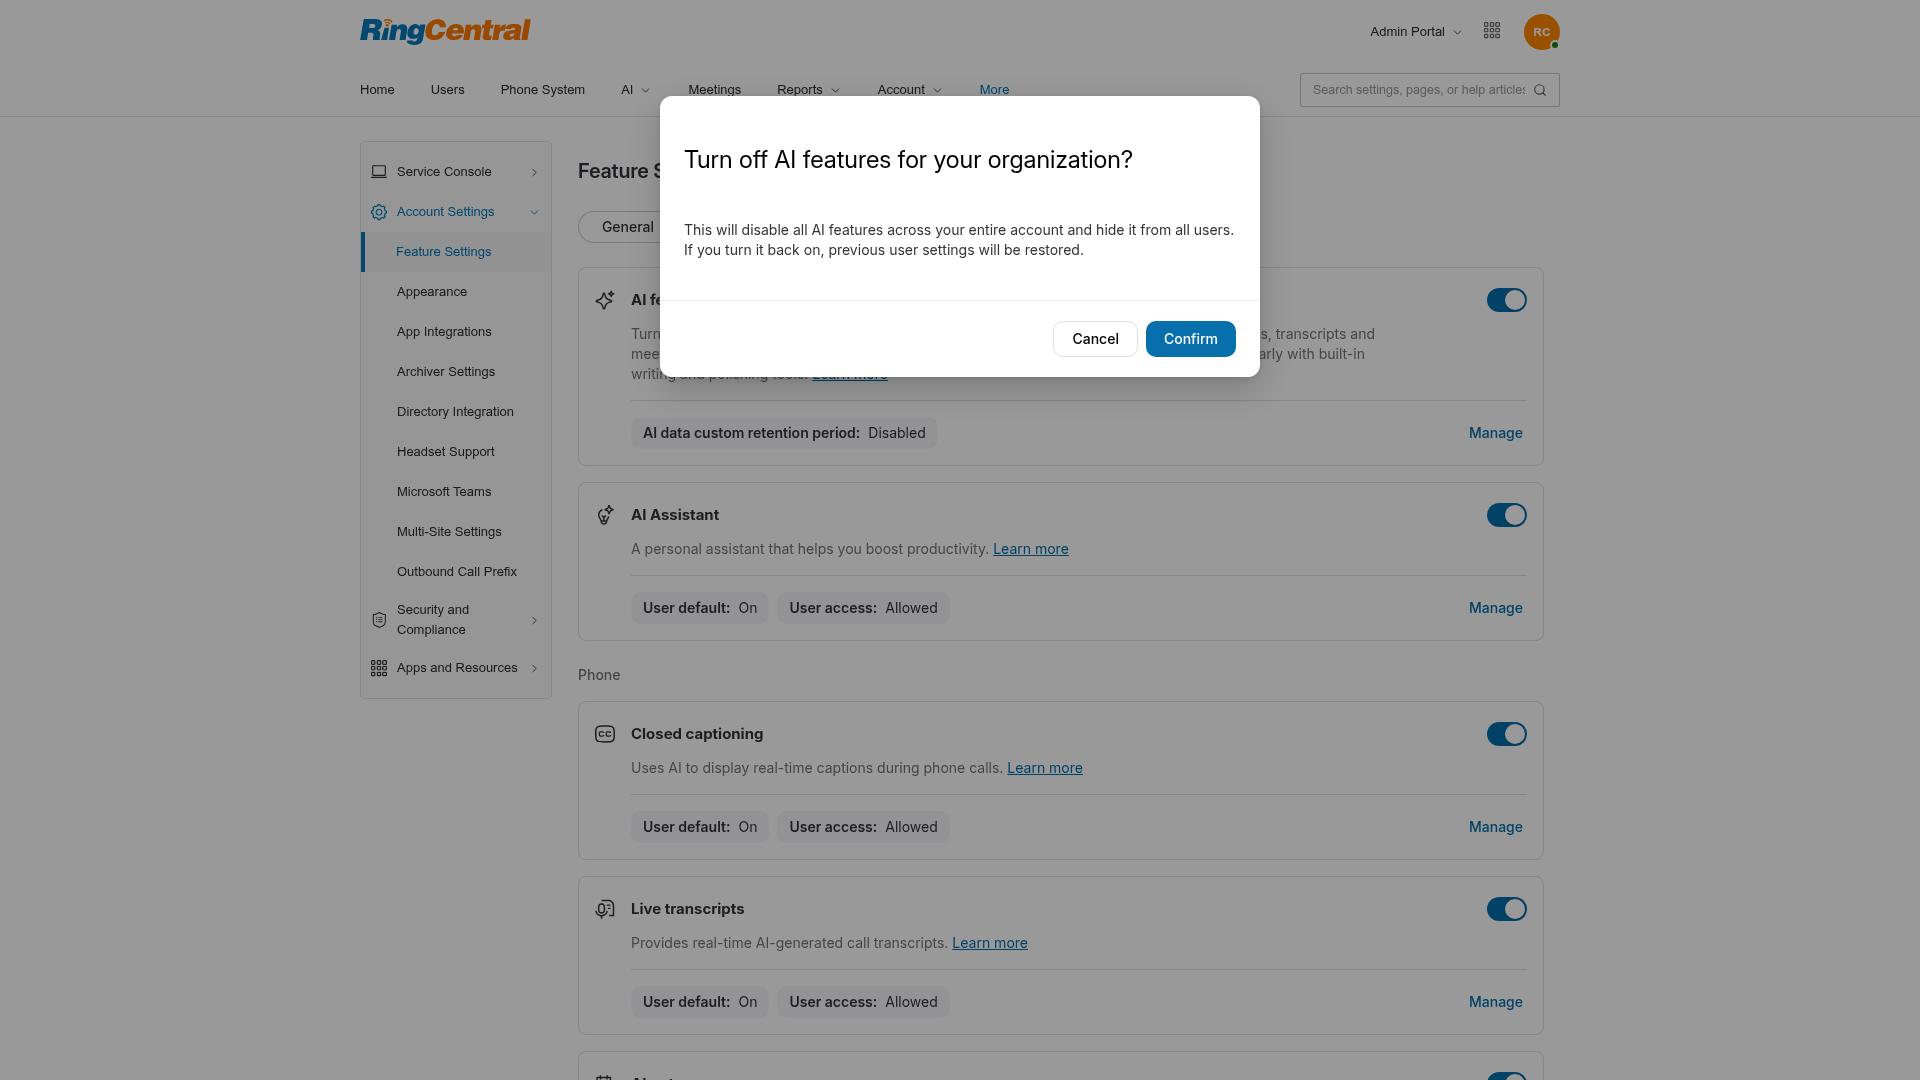
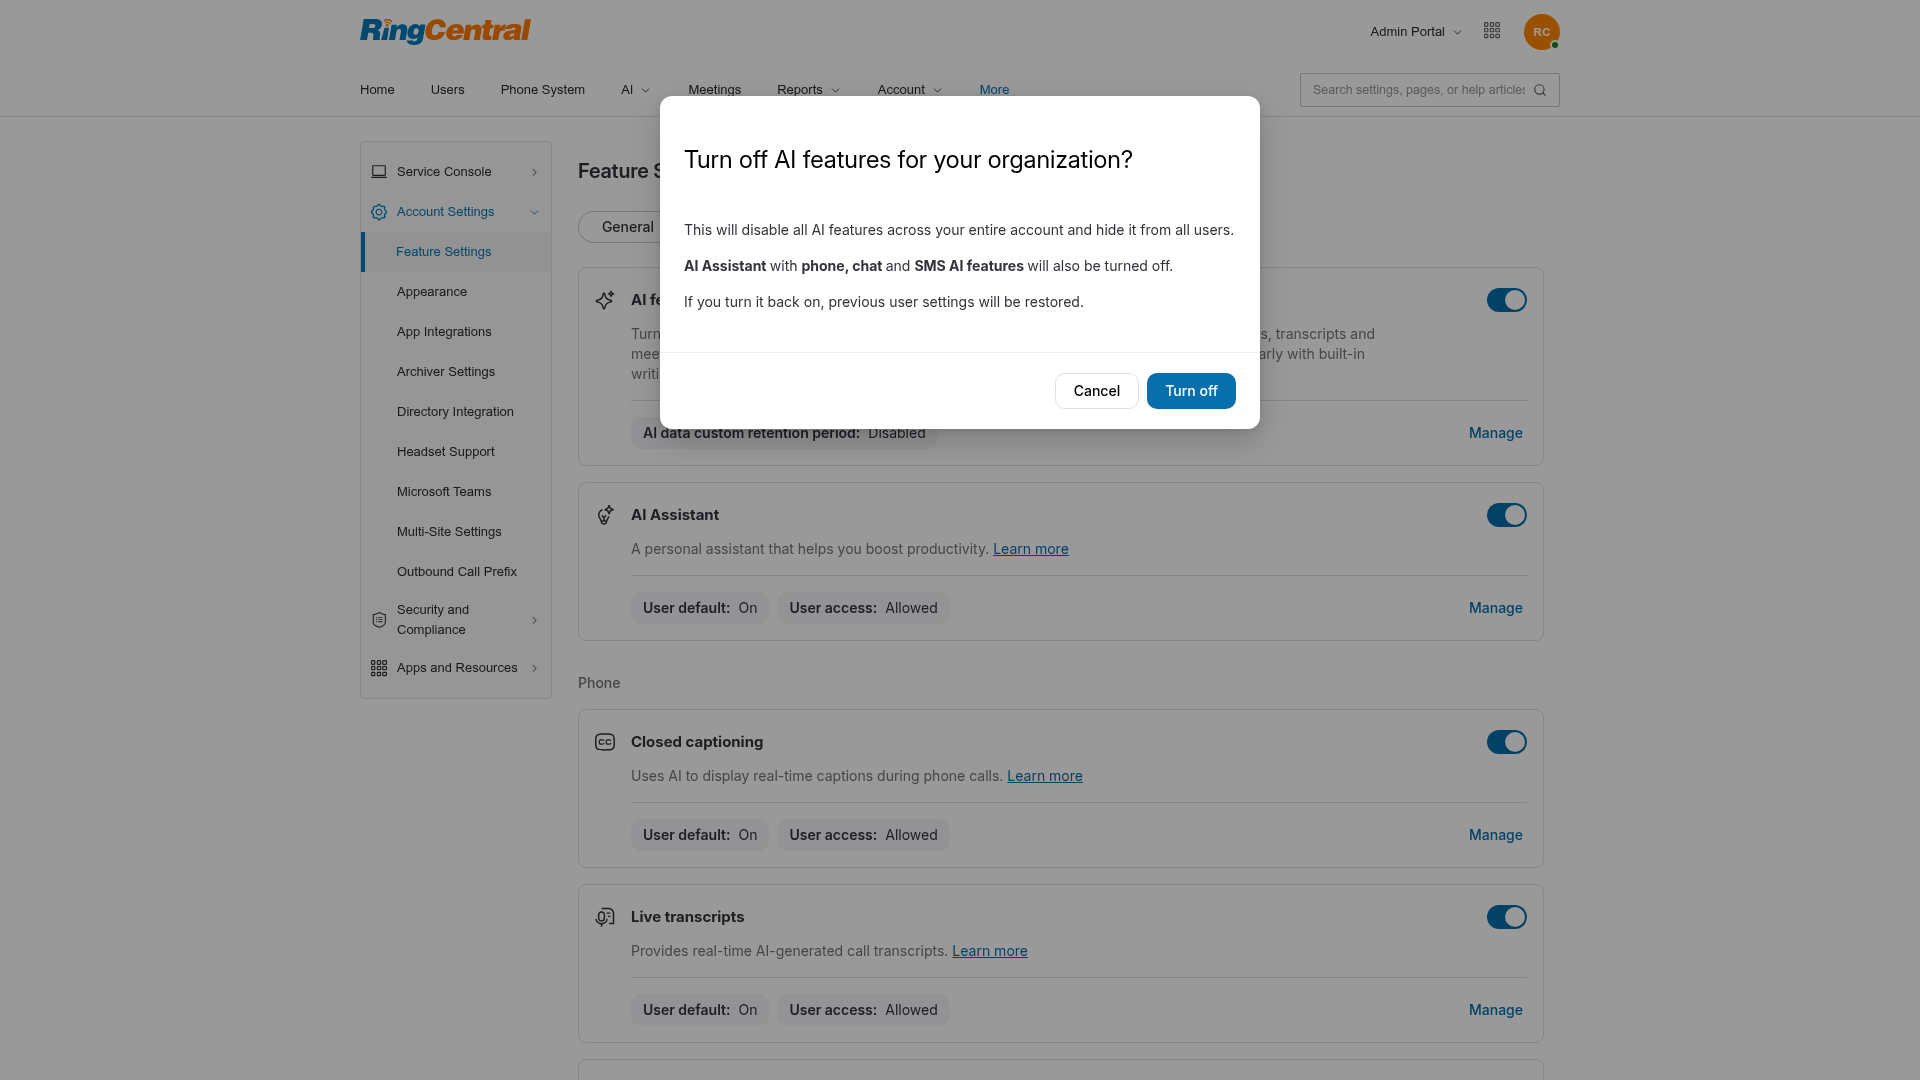
Update the confirmation message when disabling AI features
Update the `ConceptSummaryAiV2DisableConfirm.tsx` component to reflect the latest copy for the AI features disable confirmation dialog, including expanded details about the impact on AI Assistant and other features.

Replit-Commit-Author: Agent
Replit-Commit-Session-Id: 35050fb0-7192-4555-bcb4-80d074a23288
Replit-Commit-Checkpoint-Type: full_checkpoint
Replit-Commit-Event-Id: 48ccba1b-24ac-4960-8182-4b2f81b8b383
Replit-Commit-Screenshot-Url: https://storage.googleapis.com/screenshot-production-us-central1/a138ed93-de74-4635-b2a4-a6f52dbbb102/35050fb0-7192-4555-bcb4-80d074a23288/ZiMstNK
Replit-Helium-Checkpoint-Created: true

diff --git a/artifacts/mockup-sandbox/src/components/mockups/ai-feature-settings/ConceptSummaryAiV2DisableConfirm.tsx b/artifacts/mockup-sandbox/src/components/mockups/ai-feature-settings/ConceptSummaryAiV2DisableConfirm.tsx
@@ -50,9 +50,9 @@ function SpringConfirmDialog({
             {title}
           </h2>
           {body && (
-            <p className="text-[14px] font-normal leading-[20px] text-[var(--sui-colors-neutral-b1)]">
+            <div className="flex flex-col gap-4 text-[14px] font-normal leading-[20px] text-[var(--sui-colors-neutral-b1)]">
               {body}
-            </p>
+            </div>
           )}
         </div>
         <div className="border-t border-[#DDDFE5]/50" />
@@ -90,8 +90,19 @@ export function ConceptSummaryAiV2DisableConfirm() {
           <SpringConfirmDialog
             open={confirmOpen}
             confirmLabel="Turn off"
-            title={<><span className="font-normal">Turn off </span><span className="font-normal">AI features</span><span className="font-normal"> for your organization?</span></>}
-            body={<>This will turn off all AI features across your entire account and hide them from all users.</>}
+            title={<>Turn off <span className="font-normal">AI features</span> for your organization?</>}
+            body={
+              <>
+                <p>This will disable all AI features across your entire account and hide it from all users.</p>
+                <p>
+                  <span className="font-bold">AI Assistant </span>
+                  with <span className="font-bold">phone, chat </span>
+                  and <span className="font-bold">SMS AI features </span>
+                  will also be turned off.
+                </p>
+                <p>If you turn it back on, previous user settings will be restored.</p>
+              </>
+            }
             onCancel={() => setConfirmOpen(false)}
             onConfirm={() => { setAiOn(false); setConfirmOpen(false); }}
           />
